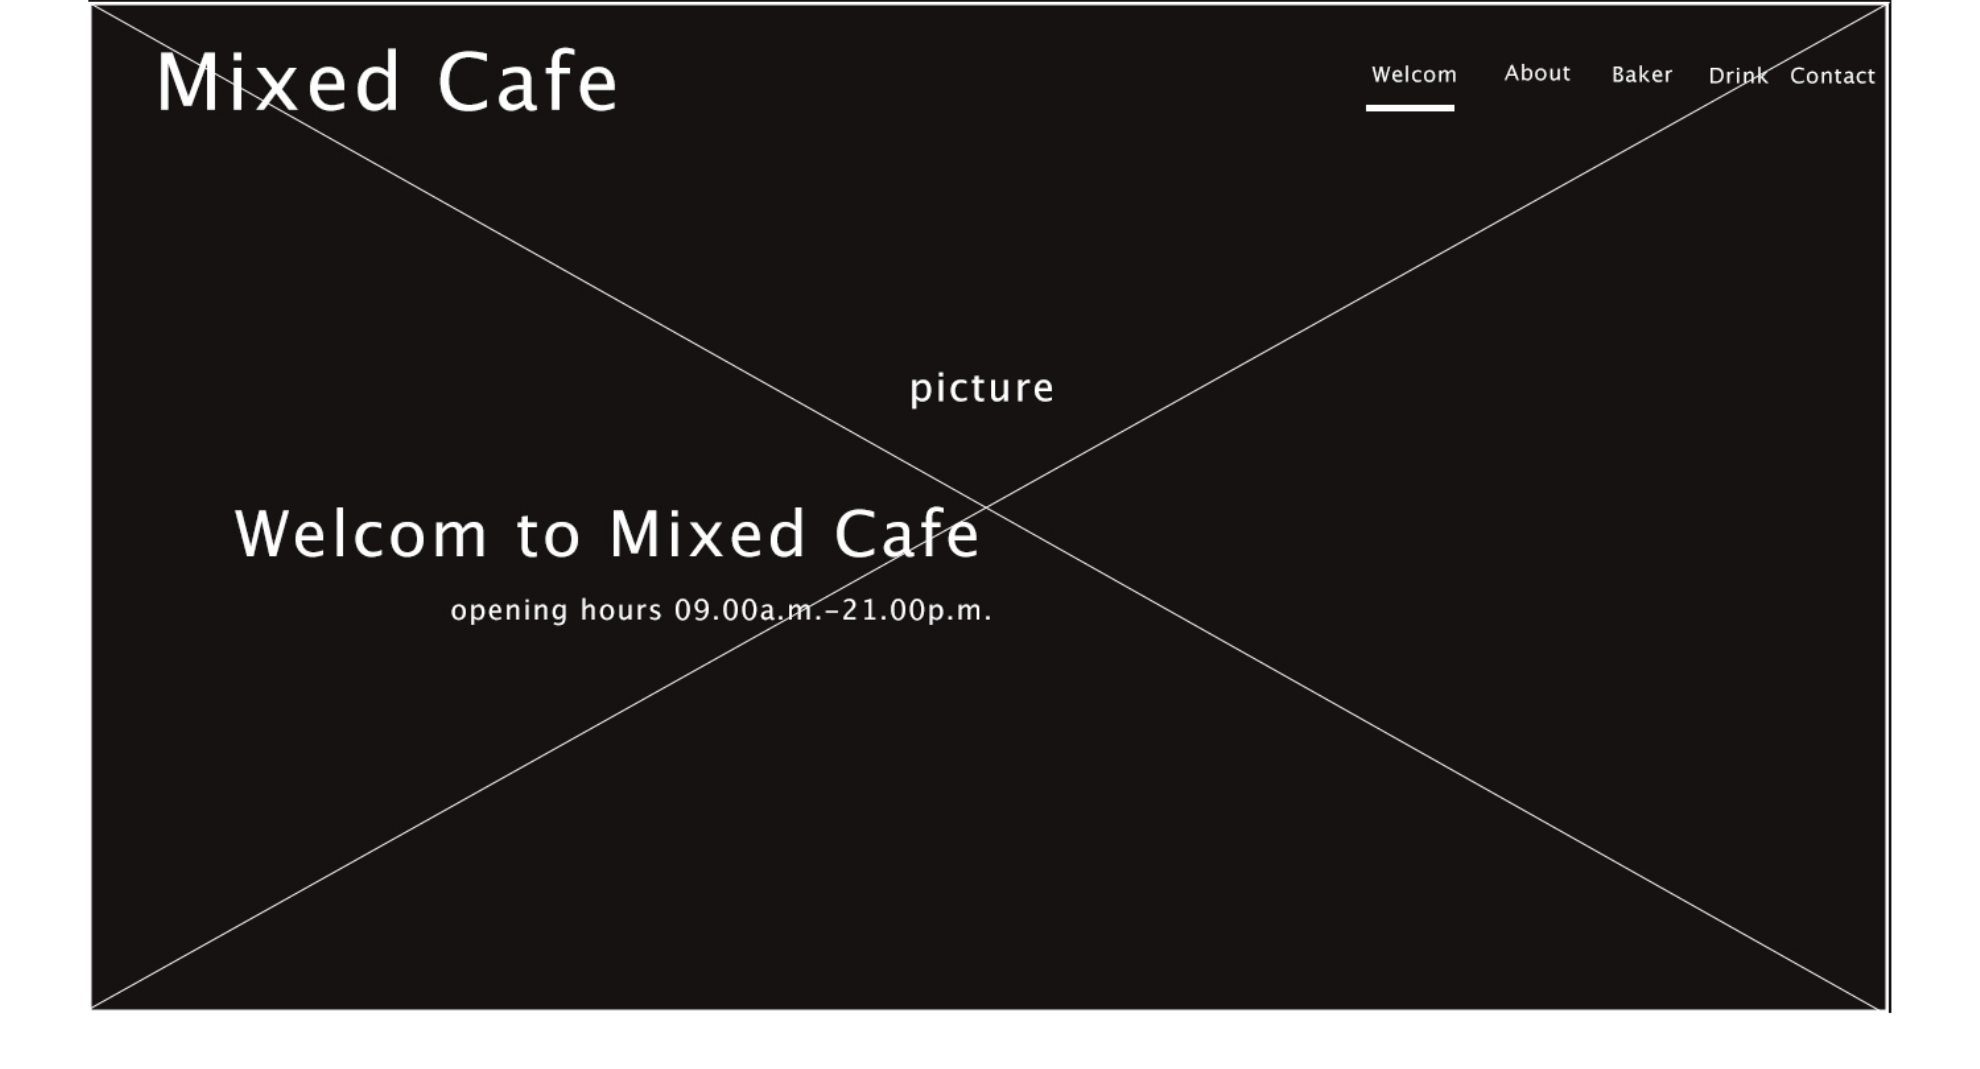
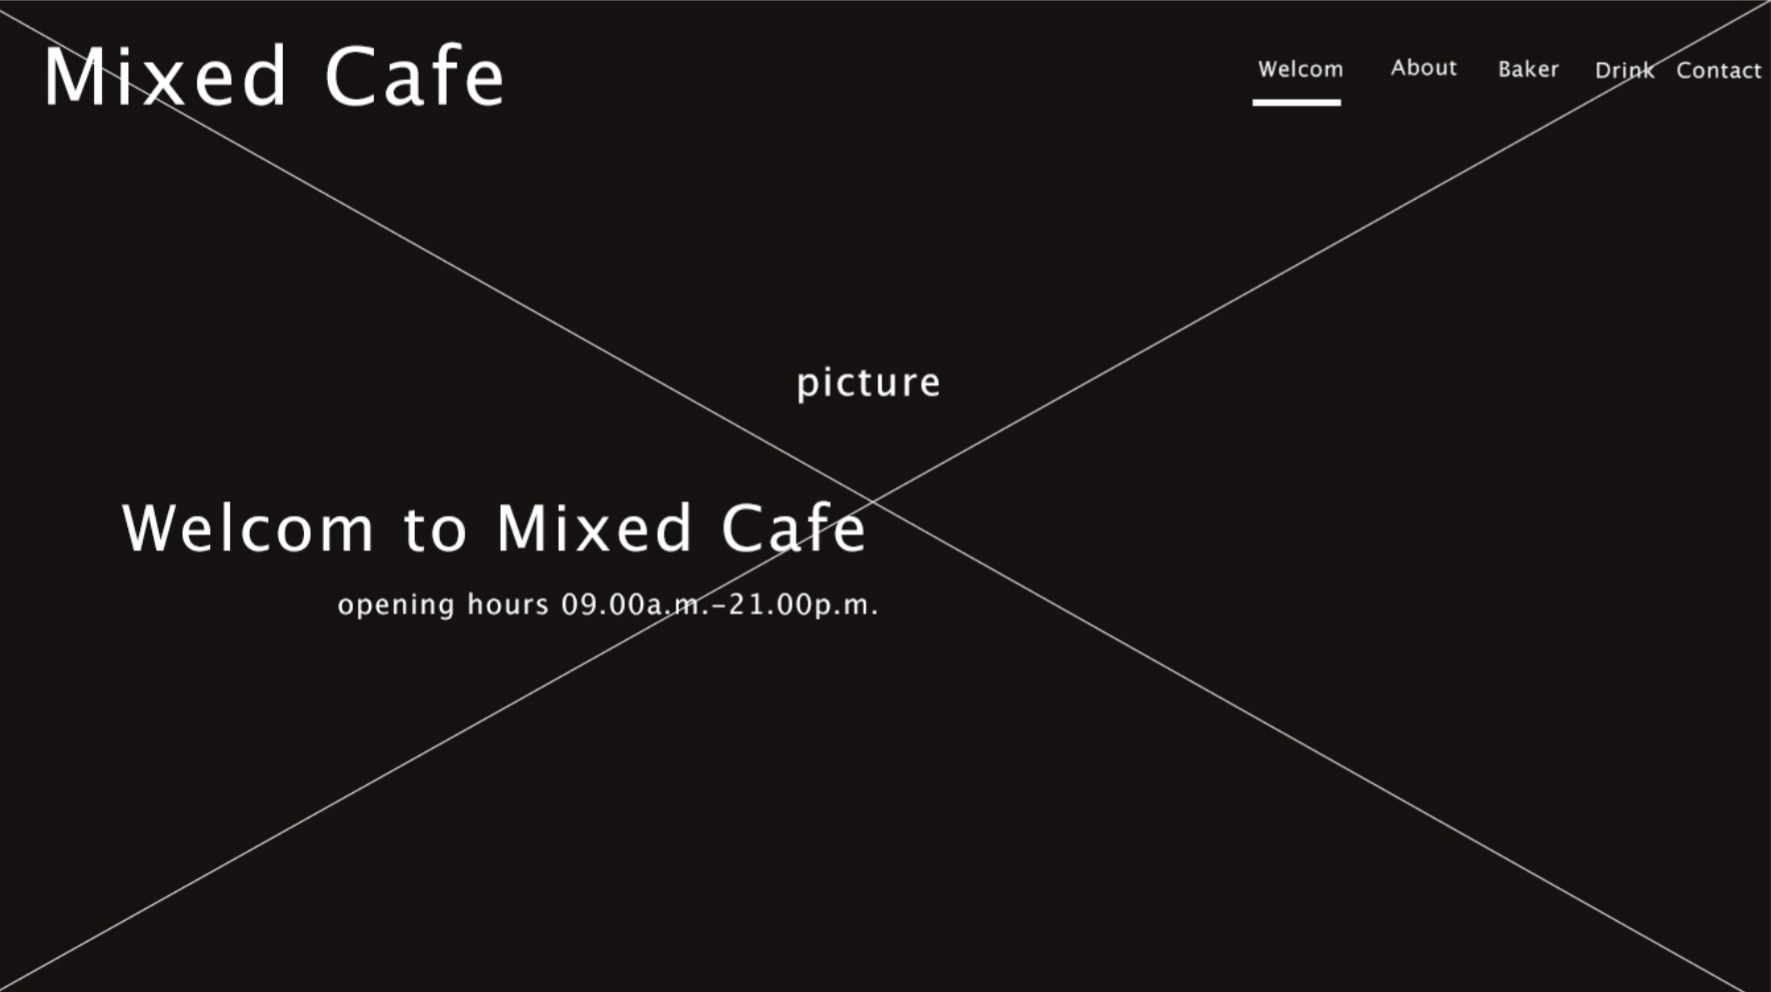
finished ลวกๆ 5555

diff --git a/santesting/style-we.css b/santesting/style-we.css
@@ -1,0 +1,86 @@
+#cssmenu{
+    border:none;
+    border:0px;
+    margin:20px;
+    padding:0px;
+ <!--   font-family:"Lucida Sans Unicode", "Lucida Grande", sans-serif; -->
+    font-size:12px;
+    color:#0000cc;
+    }
+#cssmenu ul{
+    background:#161211;
+    height:42px;
+    list-style:none;
+    margin:0;
+    padding:0;
+
+    }
+    #cssmenu li{
+        float:right;
+        padding:0px 9px 0px 9px;
+        }
+    #cssmenu li a{
+        color:#ffffff;
+        display:block;
+        font-weight:bold;
+        line-height:42px;
+        padding:0px 10px;
+        text-align:right;
+        text-decoration:none;
+        }
+        #cssmenu li a:hover{
+            color:#adb1ba;
+            text-decoration:none;
+            }
+    #cssmenu li ul{
+        background:#47b6f5;
+        border-left:2px solid #73c4f2;
+        border-right:2px solid #73c4f2;
+        border-bottom:2px solid #73c4f2;
+        display:none;
+        height:auto;
+        position:absolute;
+        width:200px;
+        z-index:200;
+        } 
+    #cssmenu li:hover ul{
+        display:block;
+        }
+    #cssmenu li li {
+        color:#000000;
+        display:block;
+        float:none;
+        padding:0px;
+        width:200px;
+        }  
+    #cssmenu li ul a{
+        display:block;
+        font-size:12px;
+        padding:0px 10px 0px 15px;
+        text-align:left;
+        }
+        #cssmenu li ul a:hover{
+            background:#21bbbd;
+            color:#000000;
+            opacity:1.0;
+            filter:alpha(opacity=100);
+            }
+    #cssmenu p{
+        clear:left;
+        }  
+    #cssmenu .active > a{
+        background: #17b9bb;
+        color:#ffffff;
+        }
+    #cssmenu .active > a:hover {
+        color:#ffffff;
+        }
+    #text{
+        display: block;
+        color: #ffffff;
+        width: 200px;
+        height: 100px;
+        font-size: 25px;
+        font-family: sans-serif;
+        padding:5px 0px 0px 60px; 
+    }

diff --git a/santesting/welcome.html b/santesting/welcome.html
@@ -6,8 +6,13 @@
 	<meta name="viewport" content="width=device-width, initial-scale=1">
 	<link rel="stylesheet" href="https://www.w3schools.com/w3css/4/w3.css">
 	<meta http-equiv="Content-Type" content="text/html; charset=utf-8" />
-	<link href="style.css" rel="stylesheet" type="text/css">
+	<link href="style-we.css" rel="stylesheet" type="text/css">
 </head>
+<style>
+	body {
+		background-color: #161211;
+	}
+</style>
 <body>
 
 	<div id="cssmenu">

diff --git a/santesting/bakery.html b/santesting/bakery.html
@@ -21,6 +21,9 @@
 		</ul>
 	</div>
 
+	<h1 class="t-center ffont padding-m w3-container w3-border-bottom">BAKERY</h1>
+
+
 	<section class="bg-ci1 padding-xl ffont">
 	<div class="cont-pd">
 		<theboxes class="spacing-l">

diff --git a/santesting/about.html b/santesting/about.html
@@ -19,7 +19,9 @@
     		<li><a href="welcome.html"><span>WELCOME</span></a></li>
     		<p id="text">MIXED CAFE</p>
 		</ul>
-	</div>
+	</div>	
+
+	<img src="about.png">
 
 </body>
 </html>
